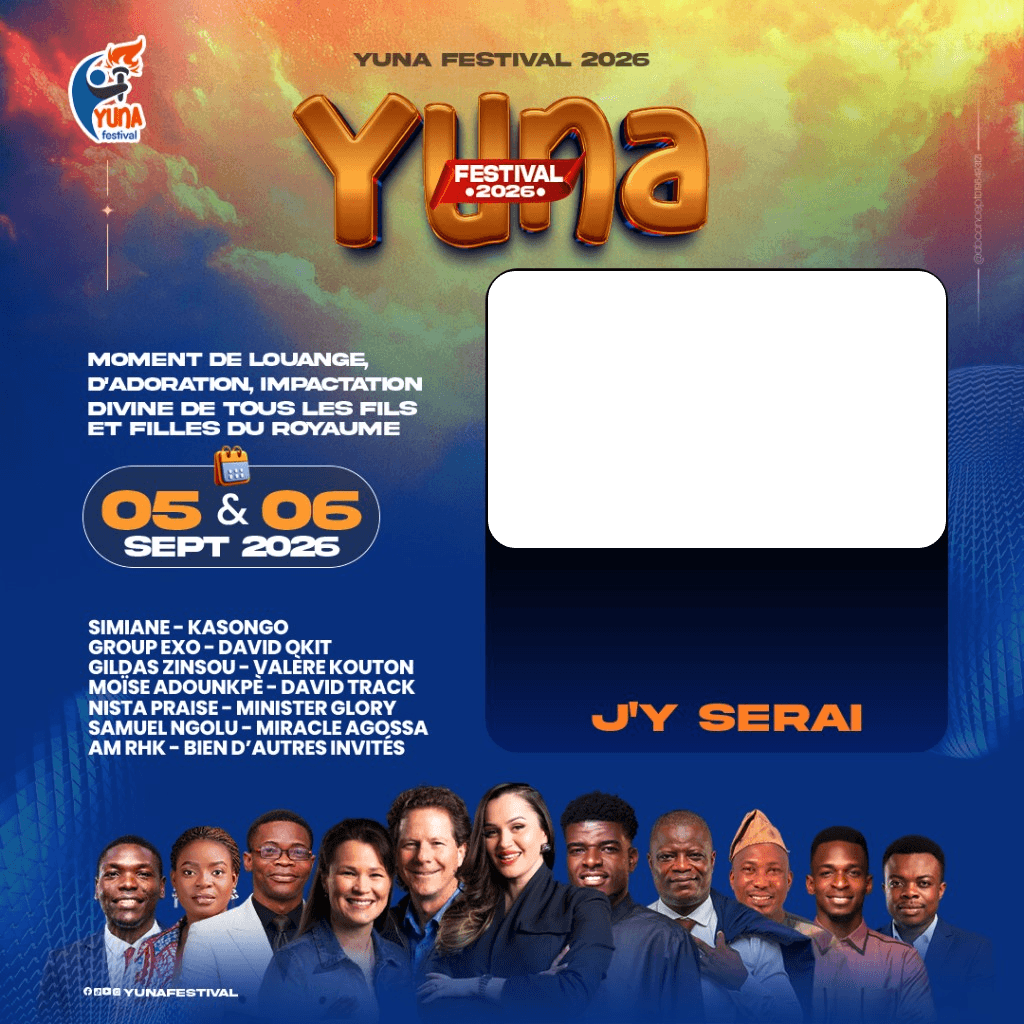
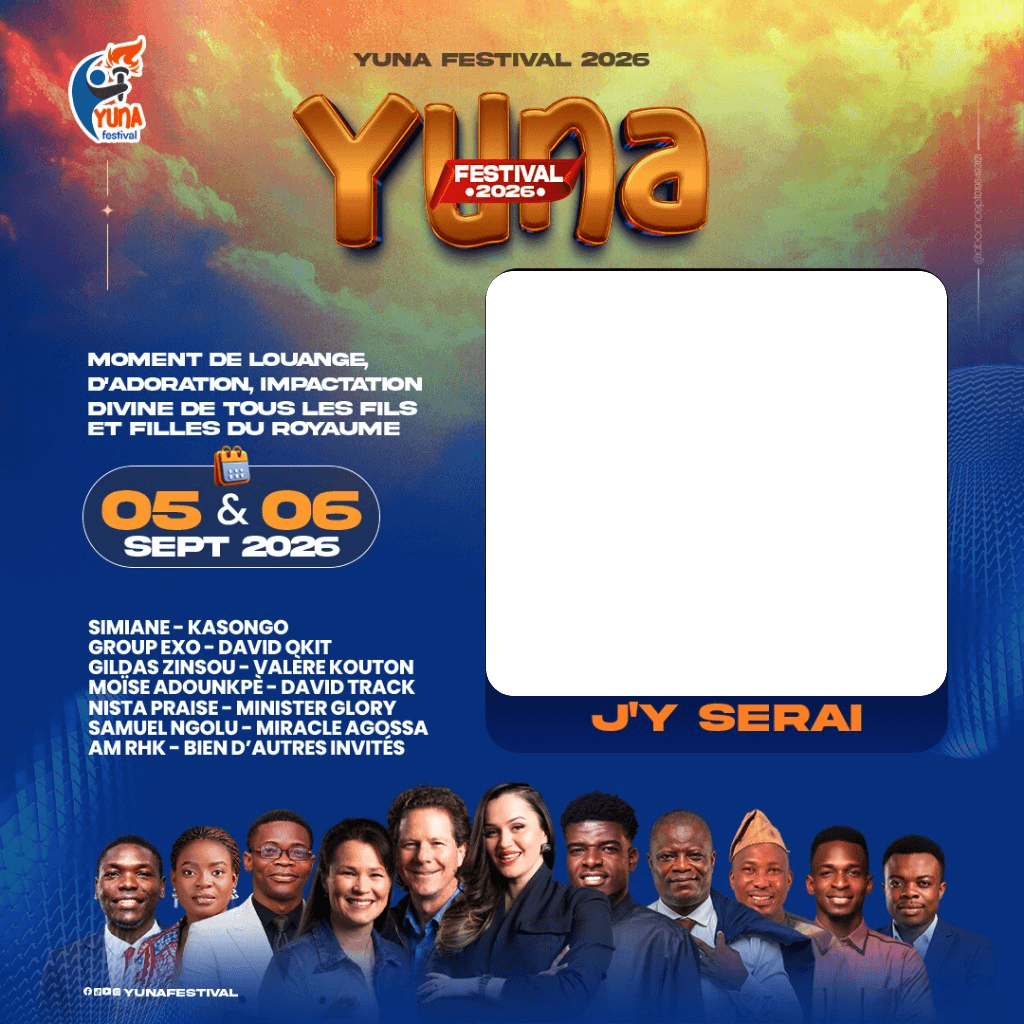
Agrandir la zone photo du filtre jusqu'au texte J'y serai.

diff --git a/components/filtre/PhotoFilterClient.tsx b/components/filtre/PhotoFilterClient.tsx
@@ -6,8 +6,8 @@ import { ButtonLink } from "@/components/ui/ButtonLink";
 import { FESTIVAL } from "@/lib/festival";
 
 const SIZE = 1024;
-/** Zone photo du template « J’Y SERAI » (coords canvas 1024). */
-const HOLE = { x: 488, y: 271, w: 458, h: 277, r: 28 };
+/** Zone photo du template « J’Y SERAI » (coords canvas 1024) — jusqu’au texte. */
+const HOLE = { x: 486, y: 271, w: 461, h: 425, r: 28 };
 const HOLE_CX = HOLE.x + HOLE.w / 2;
 const HOLE_CY = HOLE.y + HOLE.h / 2;
 const FRAME_SRC = "/media/filter-jy-serai-overlay.png";
